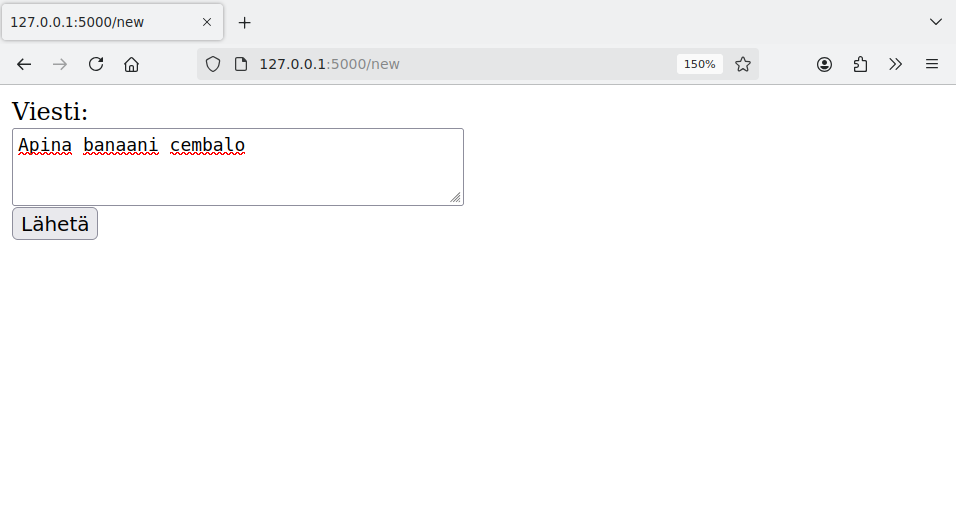
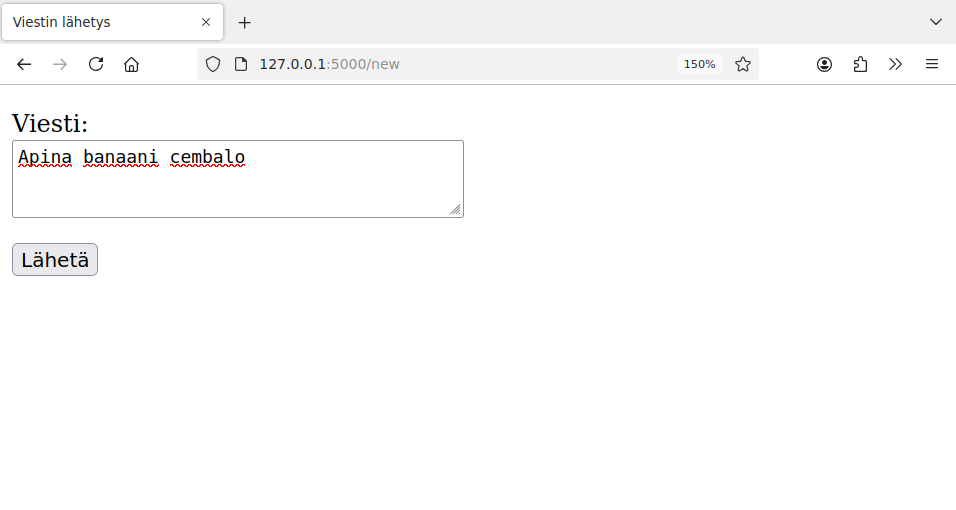
Paranna osaa 2

diff --git a/_material/02.md b/_material/02.md
@@ -40,7 +40,7 @@ Luodaan ensin tietokanta tiedostoon `database.db`. Sovellus käyttää taulua `v
 CREATE TABLE visits (
     id INTEGER PRIMARY KEY,
     visited_at TEXT
-)
+);
 ```
 
 Sarake `id` on automaattisesti kasvava id-numero, ja sarake `visited_at` sisältää vierailun ajankohdan. Koska SQLite ei sisällä erillistä tietotyyppiä päivämäärän ja kellonajan tallentamiseen, tässä on käytetty tietotyyppiä `TEXT`.
@@ -68,20 +68,21 @@ def index():
     db = sqlite3.connect("database.db")
     db.execute("INSERT INTO visits (visited_at) VALUES (datetime('now'))")
     db.commit()
-    count = db.execute("SELECT COUNT(*) FROM visits").fetchone()
+    result = db.execute("SELECT COUNT(*) FROM visits").fetchone()
+    count = result[0]
     db.close()
-    return "Sivua on ladattu " + str(count[0]) + " kertaa"
+    return "Sivua on ladattu " + str(count) + " kertaa"
 ```
 
 Kun sovelluksen etusivu ladataan, sovellus muodostaa yhteyden tietokantaan. Sovellus suorittaa ensin `INSERT`-komennon, joka lisää tietokantaan uuden rivin. Käytössä on SQLite-funktio `datetime`, jonka avulla riville saadaan haettua nykyinen päivämäärä ja kellonaika. Komennon suorituksen jälkeen kutsutaan vielä metodia `commit`, jolloin lisätty rivi siirtyy pysyvästi tietokantaan.
 
-Tämän jälkeen sovellus suorittaa `SELECT`-komennon, joka hakee tietokannasta taulun `visits` rivien määrän. Tämä määrä ilmaisee, montako kertaa sivu on ladattu. Metodi `fetchone` palauttaa tuloksen muuttujaan `count` tuplena, minkä takia lauseke `count[0]` antaa rivien määrän.
+Tämän jälkeen sovellus suorittaa `SELECT`-komennon, joka hakee tietokannasta taulun `visits` rivien määrän. Tämä määrä ilmaisee, montako kertaa sivu on ladattu, koska jokainen lataus lisää yhden rivin. Metodi `fetchone` palauttaa tuloksen muuttujaan `result` tuplena, minkä takia lauseke `result[0]` antaa rivien määrän.
 
 Sovellus näyttää seuraavalta, kun sivua on ladattu viisi kertaa:
 
 ![](../img/02-counter.png)
 
-Voimme mennä myös sovelluksen käyttämisen jälkeen katsomaan tietokannasta, mitä tietoa sovellus on tallentanut. Voimme katsoa esimerkiksi kaikki taulussa `visits` olevat rivit:
+Voimme mennä myös sovelluksen käyttämisen jälkeen katsomaan tietokannasta, mitä tietoa sovellus on tallentanut. Voimme hakea esimerkiksi kaikki taulussa `visits` olevat rivit:
 
 ```console
 $ sqlite3 database.db
@@ -148,7 +149,7 @@ def send():
 
 Etusivulla sovellus hakee kaikki viestit tietokannasta ja välittää sivupohjalle viestien määrän sekä niiden sisällöt. Tällä sivulla on linkki sivulle `/new`, jonka kautta pystyy lähettämään uuden viestin.
 
-Sivulla `/new` oleva lomake ohjaa sivulle `send`, joka lähettää viestin. Tässä tilanteessa sovellus tallentaa viestin tietokantaan ja ohjaa sitten käyttäjän takaisin etusivulle funktiolla `redirect`.
+Sivulla `/new` oleva lomake ohjaa sivulle `send`, joka lähettää viestin. Viestin lähetyksen käsittelevä funktio tallentaa viestin tietokantaan ja ohjaa sitten käyttäjän takaisin etusivulle funktiolla `redirect`.
 
 {: .note-title }
 Post/Redirect/Get
@@ -166,24 +167,56 @@ Sovellus käyttää kahta sivupohjaa, jotka on tallennettu hakemistoon `template
 {: .code-title }
 index.html
 ```jinja
-{% raw %}Viestien määrä: {{ count }}
-<hr>
-{% for message in messages %}
-{{ message[0] }}
-<hr>
-{% endfor %}
-<a href="/new">Lähetä viesti</a>{% endraw %}
+<!DOCTYPE html>
+<html>
+
+<head>
+  <title>Keskustelu</title>
+</head>
+
+{% raw %}<body>
+  <p>
+    Viestien määrä: {{ count }}
+  </p>
+  <hr />
+  {% for message in messages %}
+  <p>
+    {{ message[0] }}
+  </p>
+  <hr />
+  {% endfor %}
+  
+  <p>
+    <a href="/new">Lähetä viesti</a>
+  </p>
+</body>{% endraw %}
+
+</html>
 ```
 
 {: .code-title }
 new.html
 ```jinja
-{% raw %}<form action="/send" method="post">
-Viesti: <br>
-<textarea name="content" rows="3" cols="40"></textarea>
-<br>
-<input type="submit" value="Lähetä">
-</form>{% endraw %}
+<!DOCTYPE html>
+<html>
+
+<head>
+  <title>Viestin lähetys</title>
+</head>
+
+<body>
+  <form action="/send" method="post">
+    <p>
+      Viesti: <br />
+      <textarea name="content" rows="3" cols="40"></textarea>
+    </p>
+    <p>
+      <input type="submit" value="Lähetä">
+    </p>
+  </form>
+</body>
+
+</html>
 ```
 
 Sovelluksen käyttäminen voi näyttää seuraavalta:
@@ -204,35 +237,39 @@ Parempi ratkaisu on tehdä tietokannan käsittelyä varten moduuli, jonka kautta
 db.py
 ```python
 import sqlite3
+from flask import g
 
 def get_connection():
-    return sqlite3.connect("database.db")
-    
+    db = sqlite3.connect("database.db")
+    db.row_factory = sqlite3.Row
+    return db
+
 def execute(sql, params=[]):
     db = get_connection()
-    db.execute(sql, params)
+    result = db.execute(sql, params)
     db.commit()
+    g.last_insert_id = result.lastrowid
     db.close()
 
+def last_insert_id():
+    return g.last_insert_id    
+    
 def query(sql, params=[]):
     db = get_connection()
-    result = db.execute(sql, params).fetchall()    
+    result = db.execute(sql, params).fetchall()
     db.close()
     return result
-    
-def query_one(sql, params=[]):
-    result = query(sql, params)
-    if len(result) == 1:
-        return result[0][0]
-    else:
-        return None
 ```
 
-Funktio `get_connection` muodostaa ja palauttaa yhteyden tietokantaan. Tämän funktion ansiosta tietokantatiedoston nimi riittää kirjoittaa kerran koodissa.
+Funktio `get_connection` muodostaa ja palauttaa yhteyden tietokantaan. Tätä funktiota kutsutaan muissa funktioissa ennen tietokannan käyttämistä.
 
-Funktio `execute` on tarkoitettu suorittamaan komento, joka muuttaa tietokantaa (kuten `INSERT`, `UPDATE` tai `DELETE`). Funktio kutsuu metodia `commit`, jolloin muutos viedään pysyvästi tietokantaan. Funktiolle voi antaa parametrina komentoon tulevat parametrit.
+Koodi asettaa kentälle `db.row_factory` arvon `sqlite3.Row`, minkä ansiosta kyselyn tulostaulun sarakkeisiin pystyy viittaamaan sarakkeiden nimien avulla. Esimerkiksi jos kyselyn tulosrivi on muuttujassa `result` ja haluamme viitata ensimmäiseen sarakkeeseen `name`, voimme käyttää syntaksia `result["name"]` aiemmin käytetyn syntaksin `result[0]` lisäksi.
 
-Funktio `query` on tarkoitettu suorittamaan tietoa hakeva `SELECT`-komento. Funktio hakee kaikki tulosrivit metodilla `fetchall` ja palauttaa ne. Lisäksi funktion `query_one` avulla kyselyn tuloksen saa haettua mukavammassa muodossa, kun kyselyn tulos on yksittäinen arvo (kuten kysely muotoa `SELECT COUNT(*)`).
+Funktio `execute` on tarkoitettu suorittamaan komento, joka muuttaa tietokantaa (kuten `INSERT`, `UPDATE` tai `DELETE`). Funktiolle annetaan parametrina mahdolliset komentoon tulevat parametrit. Funktio kutsuu metodia `commit`, jolloin muutos viedään pysyvästi tietokantaan.
+
+Funktio `execute` tallentaa myös tiedon siitä, mikä on viimeksi lisätyn rivin id-numero. Tästä on hyötyä silloin, kun suoritetaan `INSERT`-komento ja halutaan käyttää rivin lisäyksen jälkeen rivin id-numeroa. Viimeksi lisätyn rivin id-numeron saa haettua funktiolla `last_insert_id`. Näemme materiaalin myöhemmissä osissa, miten tätä funktiota pystyy hyödyntämään käytännössä.
+
+Funktio `query` on tarkoitettu suorittamaan tietoa hakeva `SELECT`-komento. Funktio hakee kaikki kyselyn tulokset metodilla `fetchall` ja palauttaa ne.
 
 Katsotaan seuraavaksi, miten voimme toteuttaa tämän luvun aiemmat esimerkit uudestaan moduulin `db.py` avulla. Käytämme materiaalissa jatkossa moduulia `db.py` tietokannan käsittelyyn.
 
@@ -251,9 +288,12 @@ app = Flask(__name__)
 @app.route("/")
 def index():
     db.execute("INSERT INTO visits (visited_at) VALUES (datetime('now'))")
-    count = db.query_one("SELECT COUNT(*) FROM visits")
+    result = db.query("SELECT COUNT(*) FROM visits")
+    count = result[0][0]
     return "Sivua on ladattu " + str(count) + " kertaa"
 ```
+
+Tässä `result` on lista, jonka jokainen alkio on tuple. Koska kysely hakee vain yhden luvun, käytännössä listalla on yksi tuple, jossa on yksi alkio. Tämän takia haetaan listan ensimmäinen tuple ja tuplen ensimmäinen alkio syntaksilla `[0][0]`.
 
 ### Keskustelualue
 
@@ -290,7 +330,7 @@ Tietokantaa käyttävässä web-sovelluksessa on monta komponenttia, jotka ovat 
 
 ### Lokin tutkiminen
 
-Tavallinen tilanne sovelluksen kehittämisen aikana on, että sovellus ei toimi oikealla tavalla. Tämä näkyy usein selaimessa ilmoituksena "Internal Server Error":
+Tavallinen tilanne sovelluksen kehittämisen aikana on, että selain näyttää virhesivun "Internal Server Error":
 
 ![](../img/02-internal.png)
 
@@ -331,7 +371,7 @@ sqlite3.OperationalError: no such table: visits
 
 Tästä näkee melko suoraan virheen syyn: sovellus keskeytyi virheeseen, koska tietokannassa ei ole taulua `visits`.
 
-Yleisemminkin lokista kannattaa yrittää saada selville yllä olevan kaltaisia tietoja: millä rivillä virhe tapahtuu ja onko jotain virheilmoitusta, joka kertoo virheen syyn.
+Yleisemminkin lokista kannattaa yrittää saada selville yllä olevan kaltaisia tietoja: millä rivillä virhe tapahtui ja onko jotain virheilmoitusta, joka kertoo virheen syyn.
 
 ### Debug-tulostus
 
